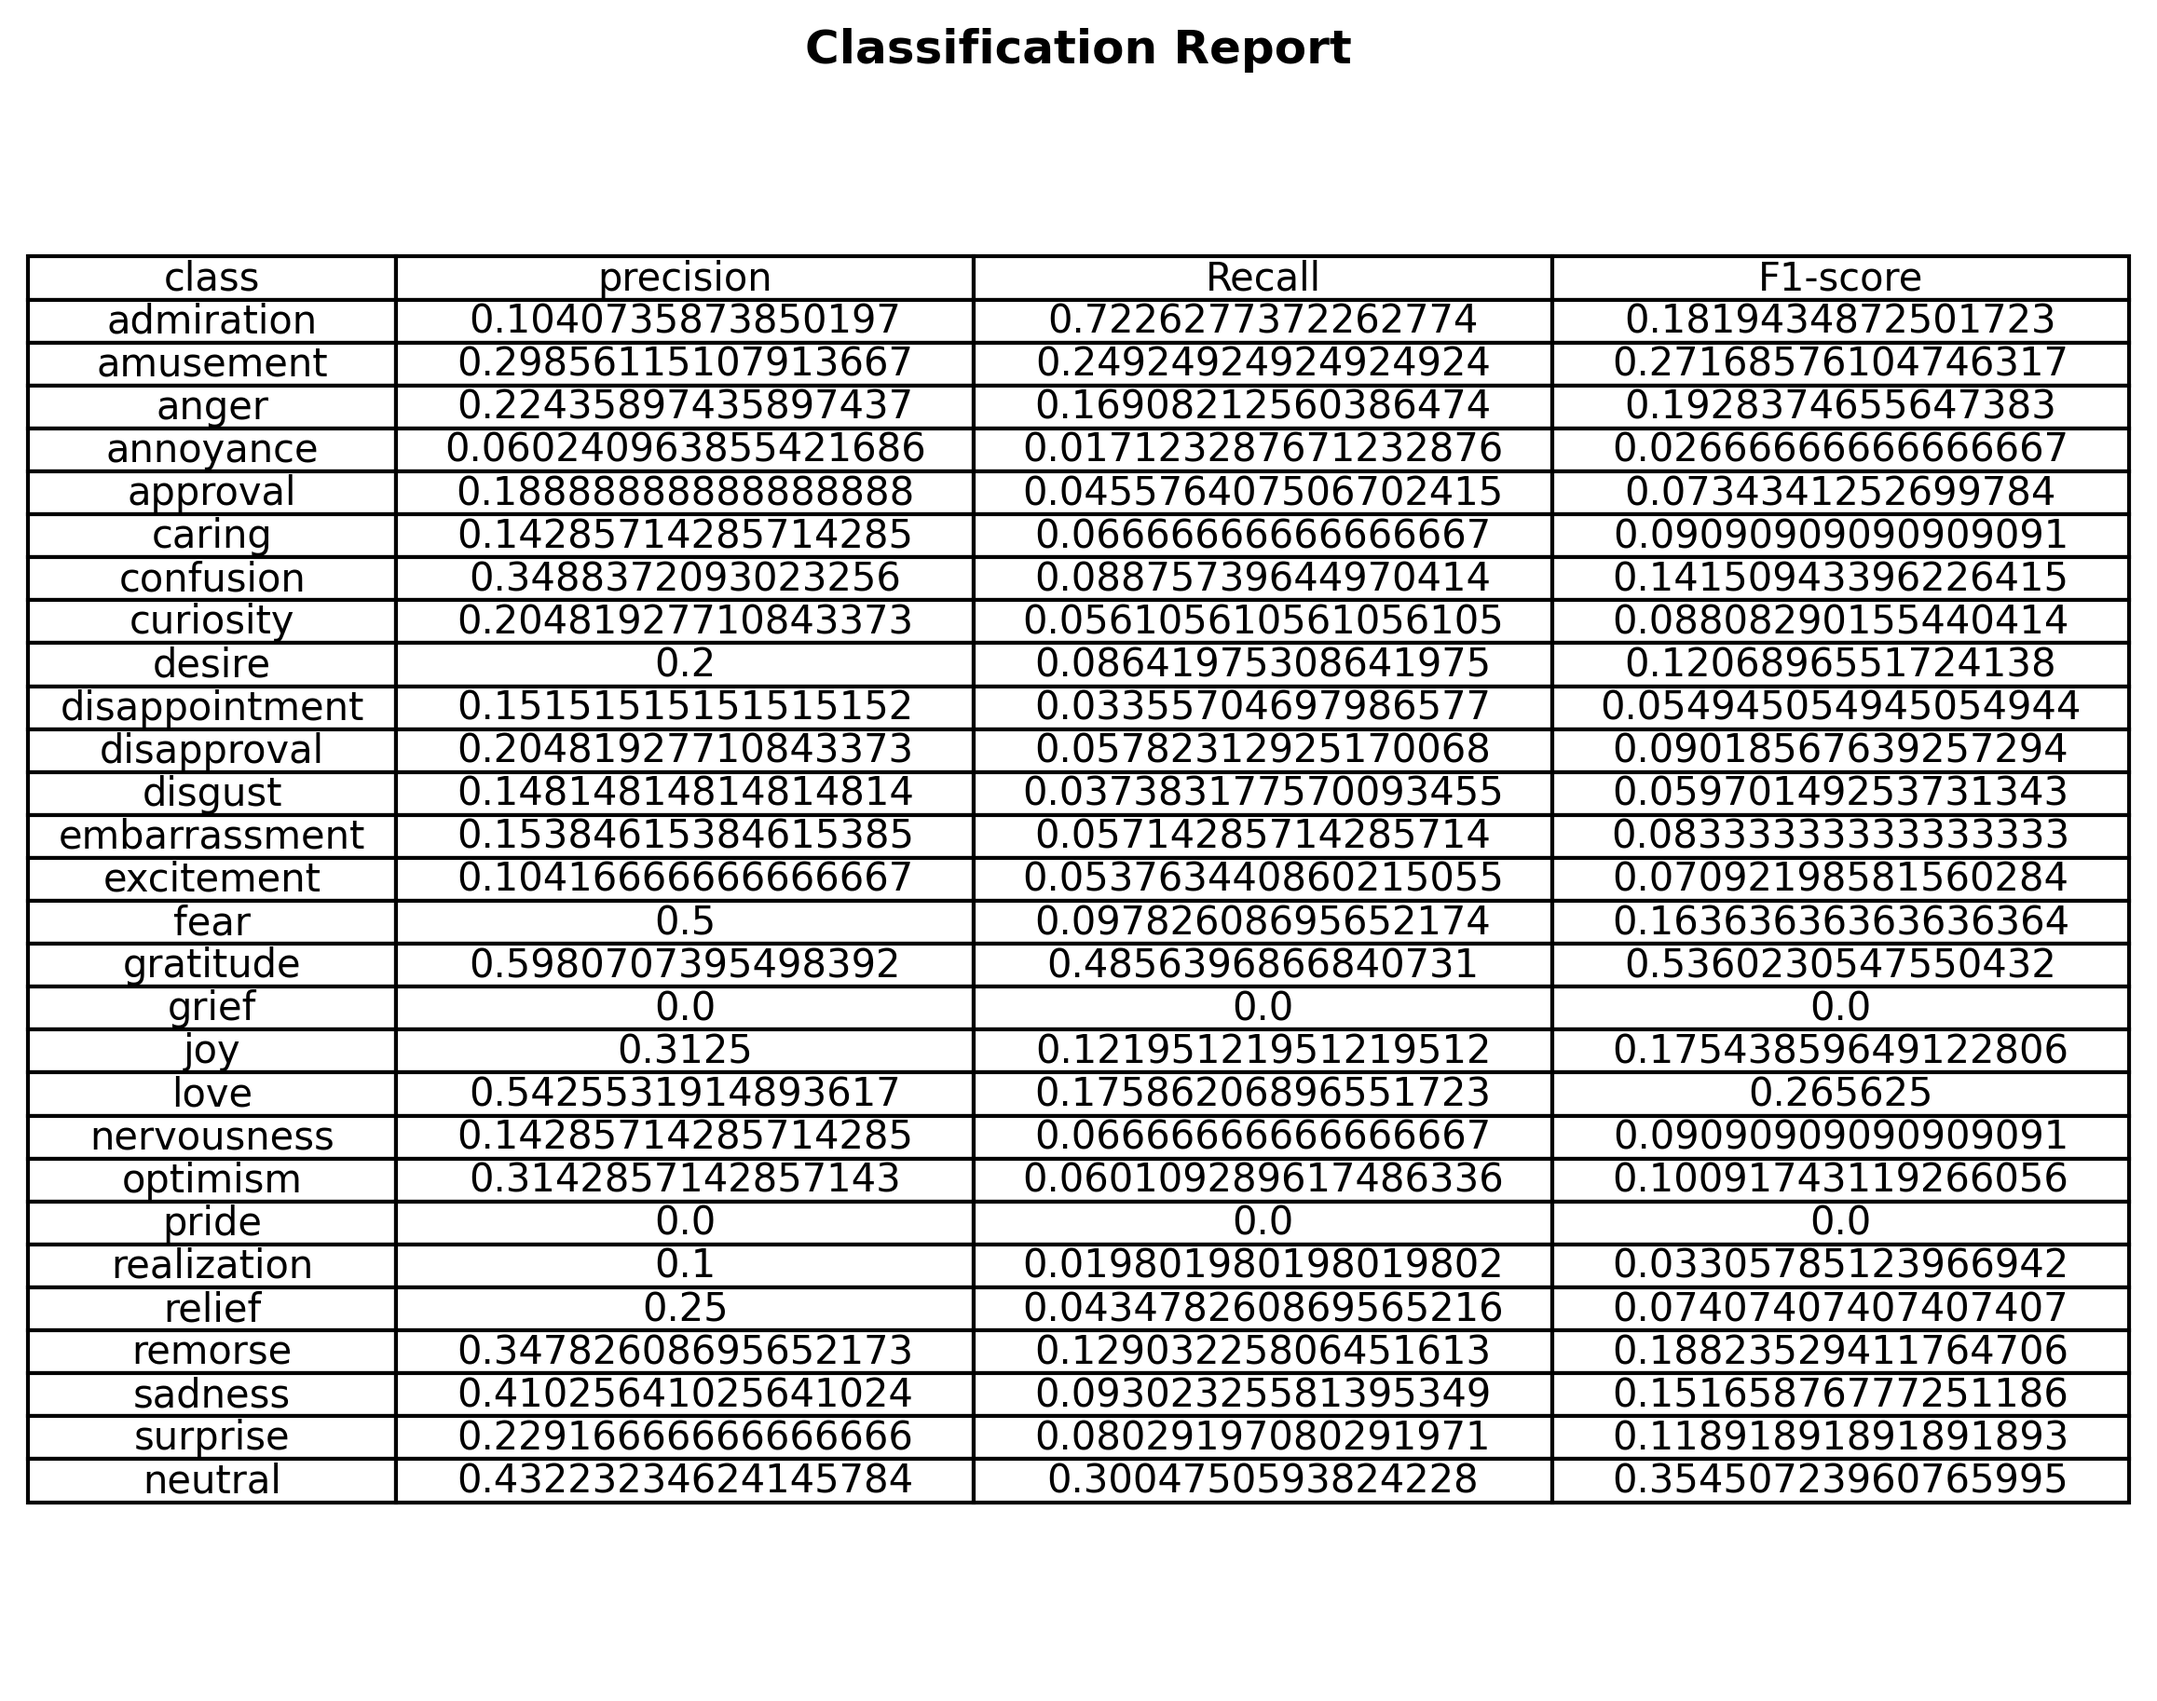
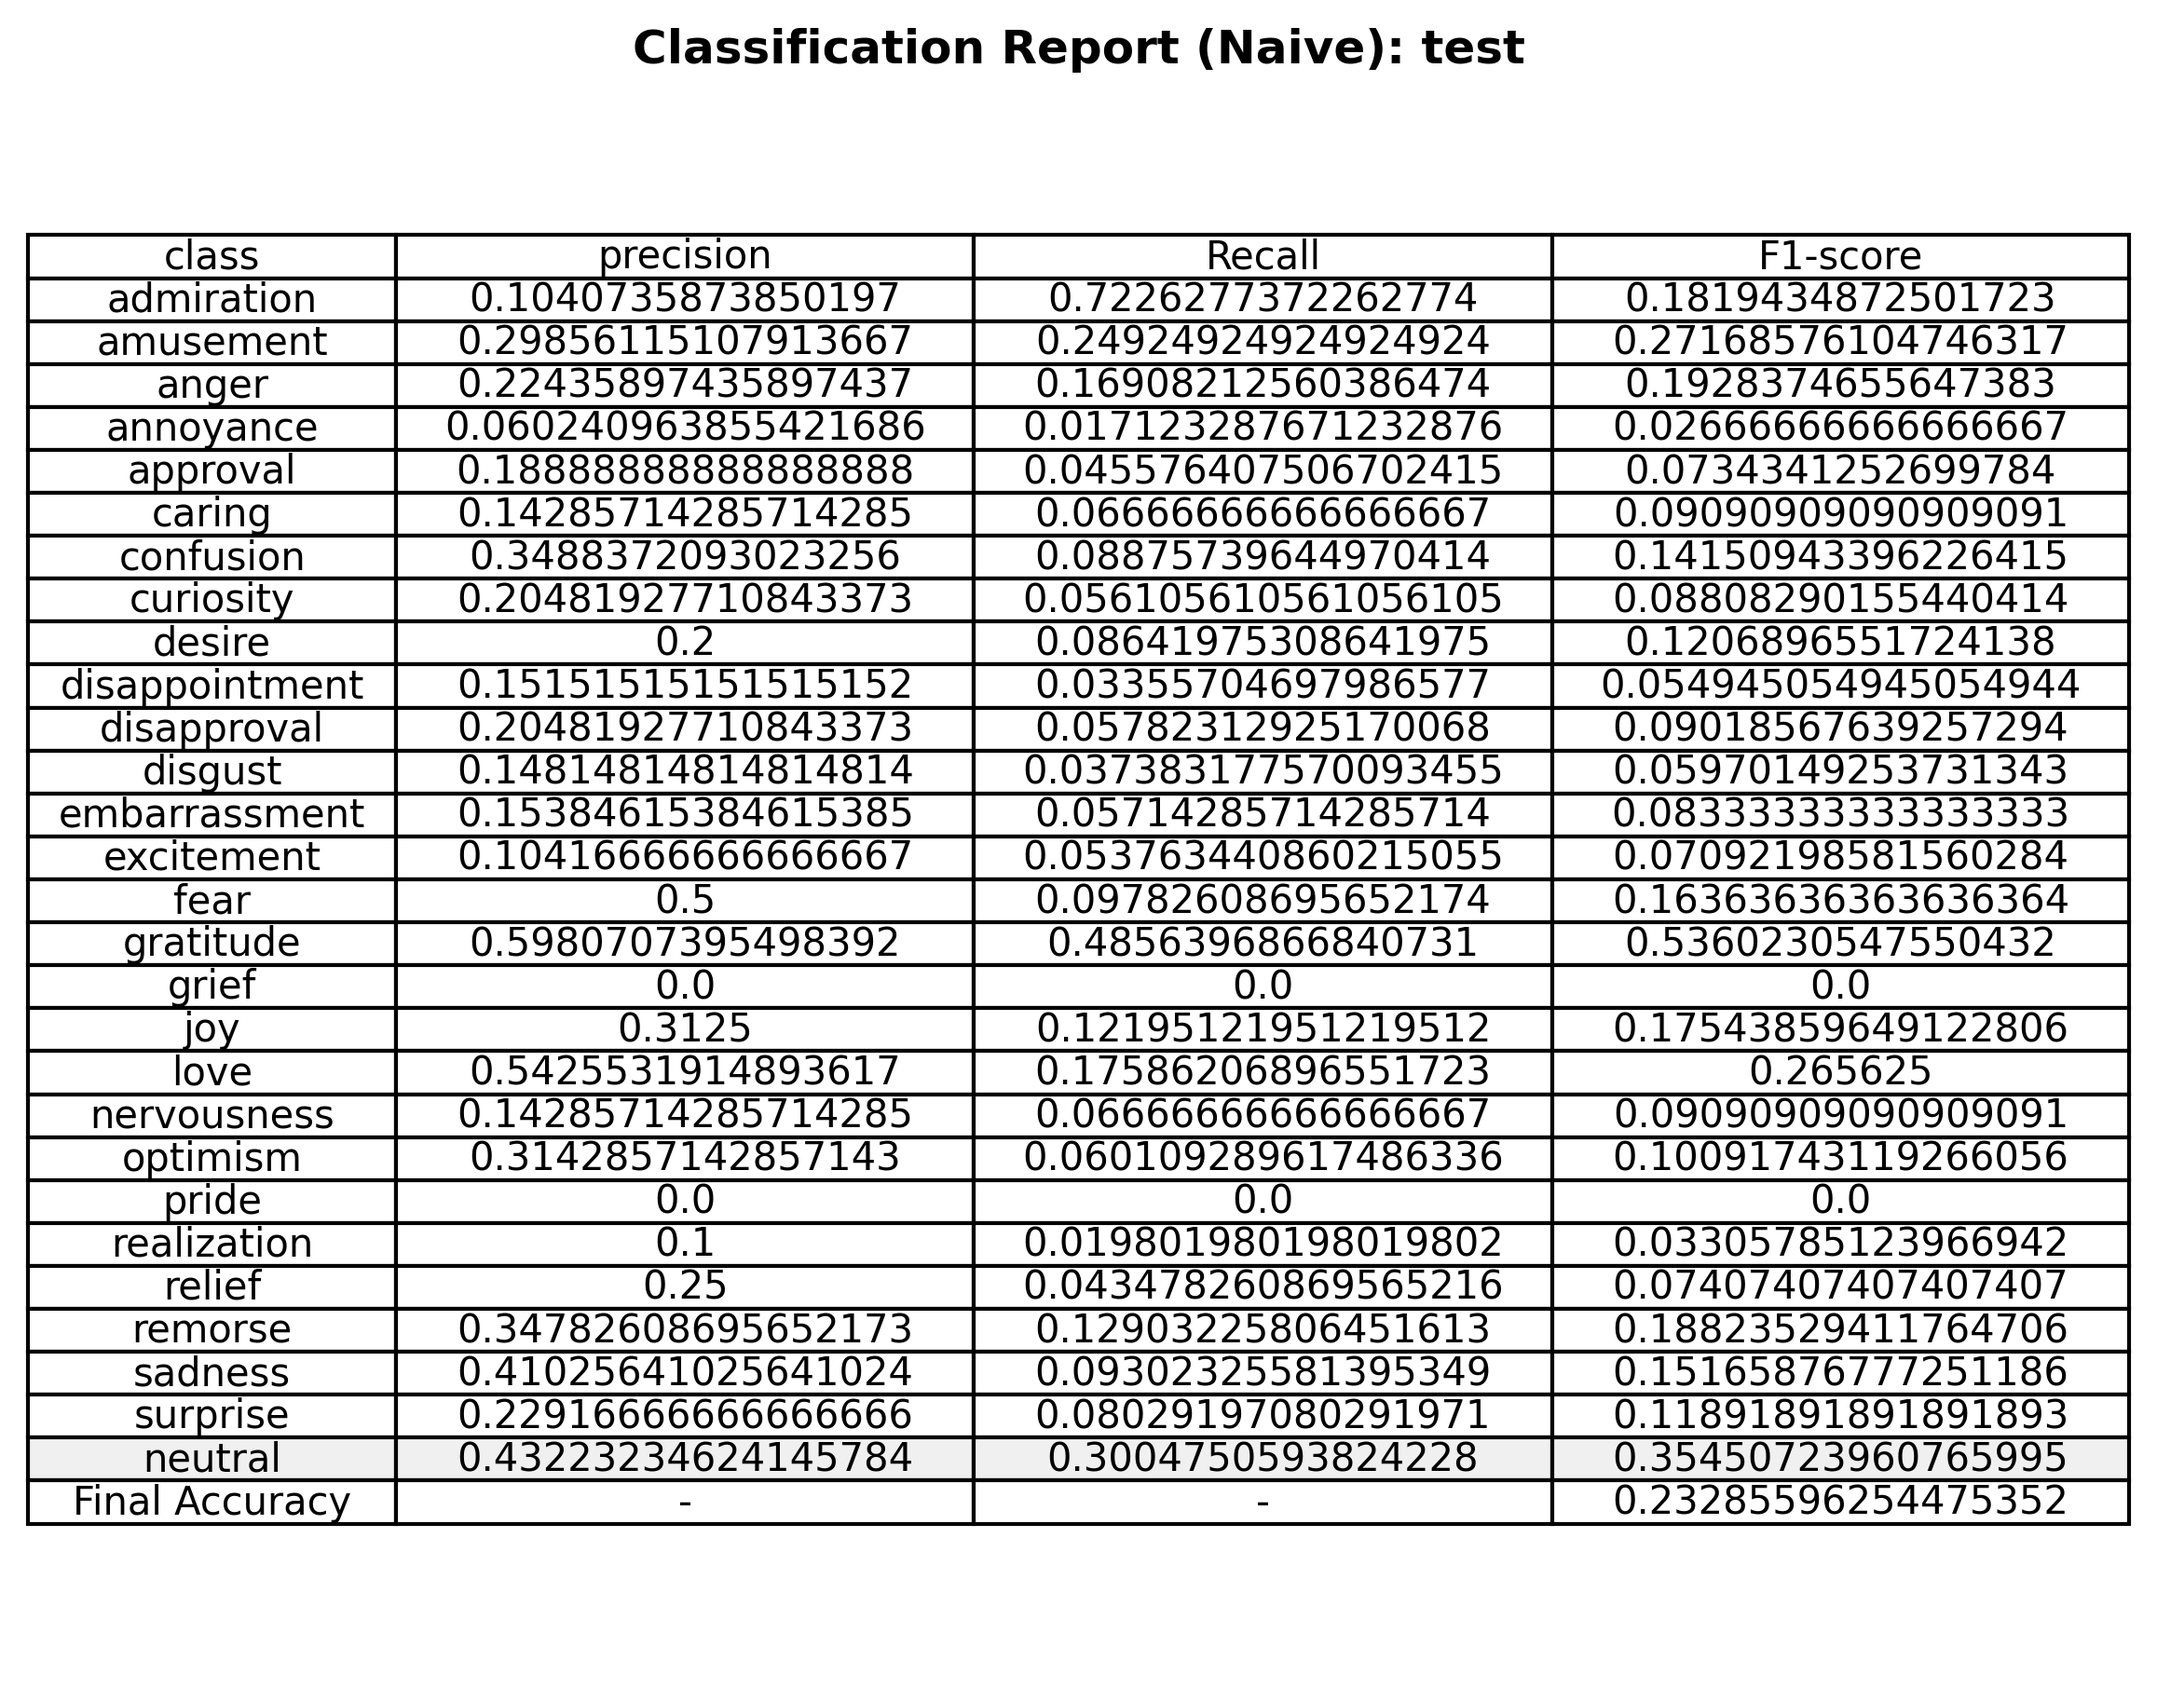
added count vec method, all figures attached

diff --git a/xb.py b/xb.py
@@ -7,7 +7,14 @@ from sklearn.feature_extraction.text import TfidfVectorizer
 from sklearn.metrics import (ConfusionMatrixDisplay, accuracy_score, auc,
                              classification_report, confusion_matrix)
 from sklearn.model_selection import train_test_split
+from sklearn.feature_extraction.text import CountVectorizer
 from tabulate import tabulate
+from wikipedia2vec import Wikipedia2Vec
+
+MODEL_FILE = "./enwiki_20180420_win10_100d.pkl"
+
+wiki2vec = Wikipedia2Vec.load(MODEL_FILE)
+vector_dim = wiki2vec.get_word_vector("the").shape[0]
 
 
 def get_data():
@@ -43,6 +50,40 @@ def vectorize_get_X_y(dataframe):
     y = dataframe.drop(columns=["text"])
     y = [e[1].iloc[0][0] for e in y.iterrows()]
     return count_matrix, np.asarray(y)
+
+def vectorize_count_X_y(dataframe):
+    """
+    Split the data into appropriate formats X, y
+    preprocess text into vectorized format.
+    """
+    vec = CountVectorizer()
+    count_matrix = vec.fit_transform(dataframe["text"])
+    # Get vector input X, and OHE label y
+    y = dataframe.drop(columns=["text"])
+    y = [e[1].iloc[0][0] for e in y.iterrows()]
+    return count_matrix, np.asarray(y)
+
+def word_embeddings_get_X_y(dataframe):
+
+    def embed_text(text):
+        tokens = text.split()
+        embeddings = []
+        for token in tokens:
+            try:
+                embeddings.append(wiki2vec.get_word_vector(token))
+            except KeyError:
+                continue
+
+                
+        if embeddings:
+            return np.mean(embeddings, axis=0)  # Average it for a sentence embedding
+        else:
+            return np.zeros(vector_dim)
+
+    embedding_matrix = np.vstack(dataframe["text"].apply(embed_text))
+    y = dataframe.drop(columns=["text"])
+    y = [e[1].iloc[0][0] for e in y.iterrows()]
+    return embedding_matrix, np.asarray(y)
 
 
 def remove_multi_labels(dataframe):
@@ -98,16 +139,16 @@ def display_evaluation(y_true, y_pred, filename: str):
     # Plot confusion matrix as a heatmap
     plt.figure(figsize=(15, 15))
     sns.heatmap(conf_matrix_df, annot=True, fmt="d", cmap="Blues")
-    plt.title(f"Confusion Matrix: {filename}")
+    plt.title(f"Confusion Matrix (XGB): {filename}")
     plt.ylabel("Actual")
     plt.xlabel("Predicted")
-    plt.show()
 
     plt.savefig(
         f"./figs/CM_xgb_{filename}.png",
         bbox_inches="tight",
         dpi=300,
     )
+    plt.show()
 
     accuracy = accuracy_score(y_true, y_pred)
     table_acc = [[accuracy]]
@@ -125,6 +166,8 @@ def display_evaluation(y_true, y_pred, filename: str):
         class_metrics.append([cat_name, precision, recall, f1_score])
 
     headers = ["class", "precision", "Recall", "F1-score"]
+    accuracy_row = ["Final Accuracy", "-", "-", accuracy]
+    class_metrics.append(accuracy_row)
     table_class = tabulate(
         class_metrics, headers=headers, tablefmt="grid", floatfmt=".2f"
     )
@@ -145,6 +188,10 @@ def display_evaluation(y_true, y_pred, filename: str):
     table.auto_set_font_size(False)
     table.set_fontsize(10)
     table.auto_set_column_width(col=list(range(len(headers))))
+    # Highlight accuracy row
+    num_rows = len(class_metrics)
+    for i in range(len(headers)):
+        table[(num_rows - 1, i)].set_facecolor("#f0f0f0")
     fig.subplots_adjust(top=0.82)
     fig.subplots_adjust(right=0.696)
 
@@ -162,6 +209,19 @@ def main():
     """With guidance from: https://www.kaggle.com/code/stuarthallows/using-xgboost-with-scikit-learn"""
     train, val, test = get_data()
     # Train
+    x, y = word_embeddings_get_X_y(train)
+    x_train, x_test, y_train, y_test = train_test_split(
+        x, y, test_size=0.20, random_state=42
+    )
+
+    xgb_model = xgb.XGBClassifier(objective="multi:softprob")
+    xgb_model.fit(x_train, y_train)
+    y_pred = xgb_model.predict(x_train)
+    display_evaluation(y_train, y_pred, filename="train_Word_embeddings")
+    # Test
+    y_pred_test = xgb_model.predict(x_test)
+    display_evaluation(y_test, y_pred_test, filename="test_Word_embeddings")
+    ##TFID
     x, y = vectorize_get_X_y(train)
     x_train, x_test, y_train, y_test = train_test_split(
         x, y, test_size=0.20, random_state=42
@@ -170,10 +230,25 @@ def main():
     xgb_model = xgb.XGBClassifier(objective="multi:softprob")
     xgb_model.fit(x_train, y_train)
     y_pred = xgb_model.predict(x_train)
-    display_evaluation(y_train, y_pred, filename="train")
+    display_evaluation(y_train, y_pred, filename="train_tfid")
     # Test
     y_pred_test = xgb_model.predict(x_test)
-    display_evaluation(y_test, y_pred_test, filename="test")
+    display_evaluation(y_test, y_pred_test, filename="test_tfid")
+
+    #Count Vec
+    x, y = vectorize_count_X_y(train)
+    x_train, x_test, y_train, y_test = train_test_split(
+        x, y, test_size=0.20, random_state=42
+    )
+
+    xgb_model = xgb.XGBClassifier(objective="multi:softprob")
+    xgb_model.fit(x_train, y_train)
+    y_pred = xgb_model.predict(x_train)
+    display_evaluation(y_train, y_pred, filename="train_count")
+    # Test
+    y_pred_test = xgb_model.predict(x_test)
+    display_evaluation(y_test, y_pred_test, filename="test_count")
 
 
-main()
+if __name__ == "__main__":
+    main()
